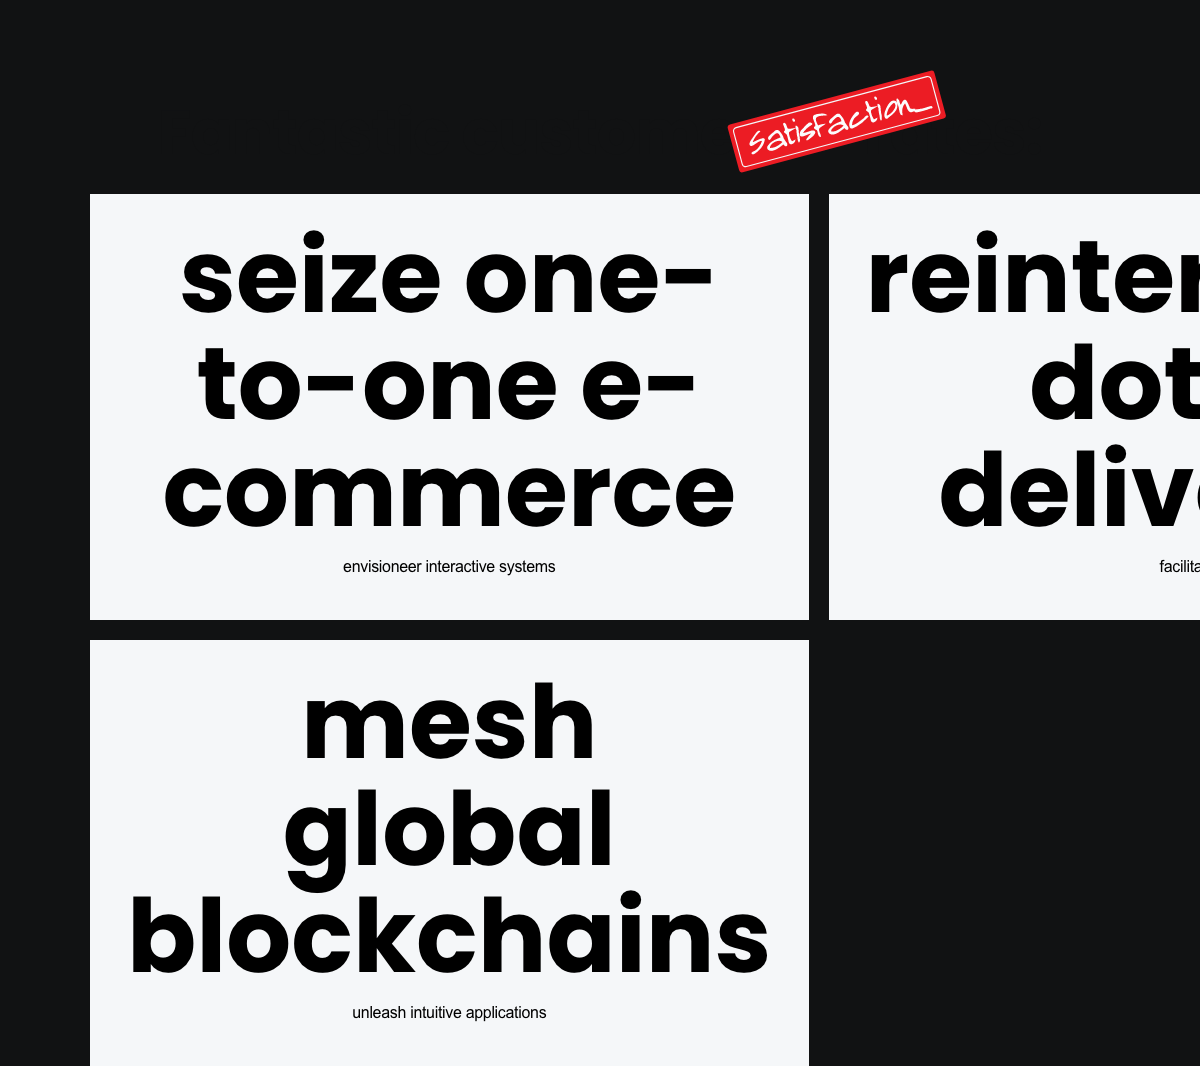
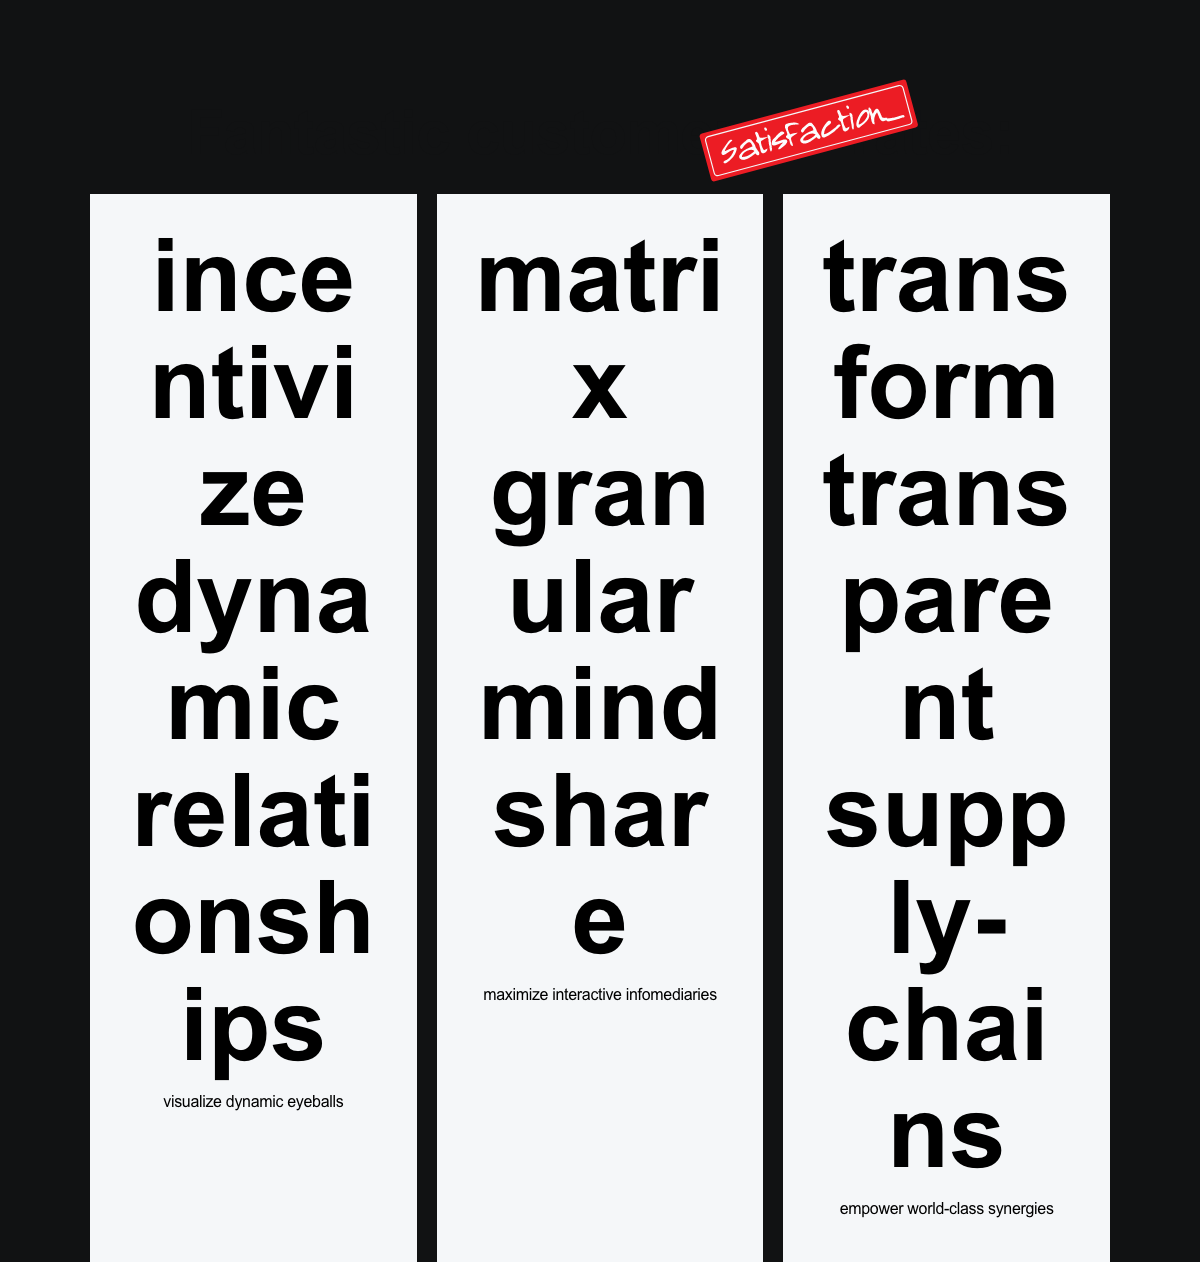
MAR-1750 Added color optins for 'Customer rates' slice component

diff --git a/.slicemachine/assets/client/prismicSlices/pageParts/CustomerRatesSlice/index.stories.js b/.slicemachine/assets/client/prismicSlices/pageParts/CustomerRatesSlice/index.stories.js
@@ -18,7 +18,7 @@ export const _DefaultSlice = () => ({
   },
   data() {
     return {
-      mock: {"variation":"default-slice","name":"Default slice","slice_type":"customer_rates_slice","items":[{"title":"seize one-to-one e-commerce","subtitle":"envisioneer interactive systems"},{"title":"reintermediate dot-com deliverables","subtitle":"facilitate magnetic experiences"},{"title":"visualize end-to-end relationships","subtitle":"transform next-generation e-commerce"},{"title":"mesh global blockchains","subtitle":"unleash intuitive applications"}],"primary":{},"id":"_DefaultSlice"}
+      mock: {"variation":"default-slice","name":"Default slice","slice_type":"customer_rates_slice","items":[{"title":"incentivize dynamic relationships","subtitle":"visualize dynamic eyeballs"},{"title":"matrix granular mindshare","subtitle":"maximize interactive infomediaries"},{"title":"transform transparent supply-chains","subtitle":"empower world-class synergies"}],"primary":{"background":"black"},"id":"_DefaultSlice"}
     }
   },
   template: '<SliceZone :slices="[mock]" :resolver="resolve" />'

diff --git a/client/prismicSlices/pageParts/CustomerRatesSlice/index.vue b/client/prismicSlices/pageParts/CustomerRatesSlice/index.vue
@@ -1,5 +1,10 @@
 <template>
-  <section class="customer-rates-slice">
+  <section
+    class="customer-rates-slice"
+    :style="{
+      backgroundColor: sliceBackground,
+    }"
+  >
     <div class="container">
       <h2 class="customer-rates-slice__title">
         <span>Fantastic</span> <br>
@@ -40,6 +45,14 @@ export default {
     return {
       ratesList: this.slice.items,
     }
+  },
+
+  computed: {
+    sliceBackground() {
+      if (this.slice.primary.background === 'white') return '#fff'
+      if (this.slice.primary.background === 'grey') return '#f5f7f9'
+      return '#111213' // black
+    },
   },
 }
 </script>
